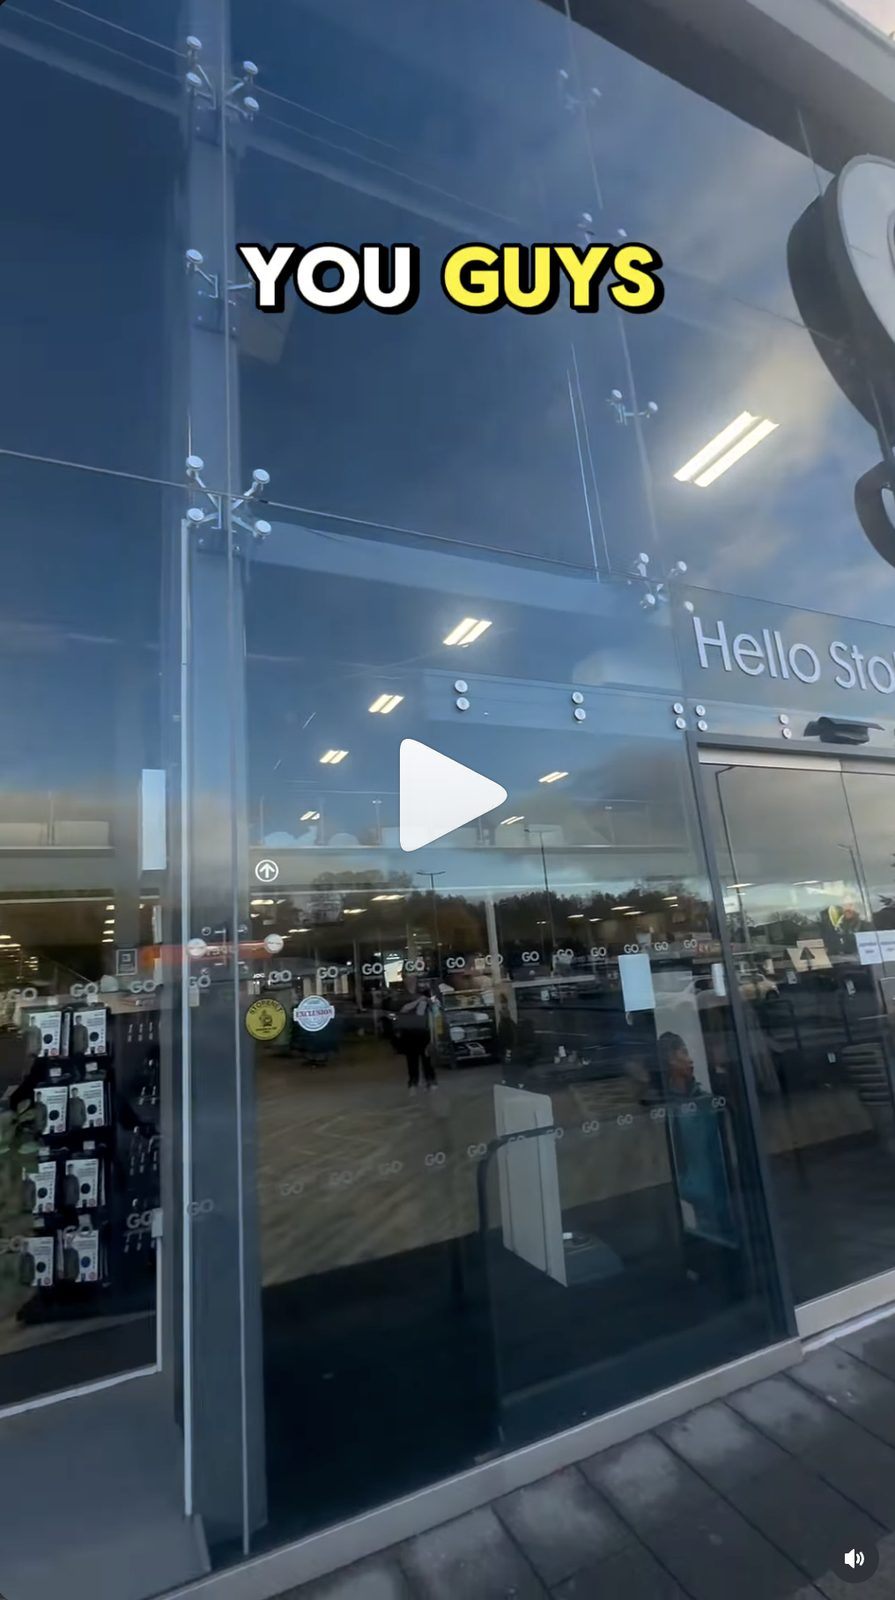
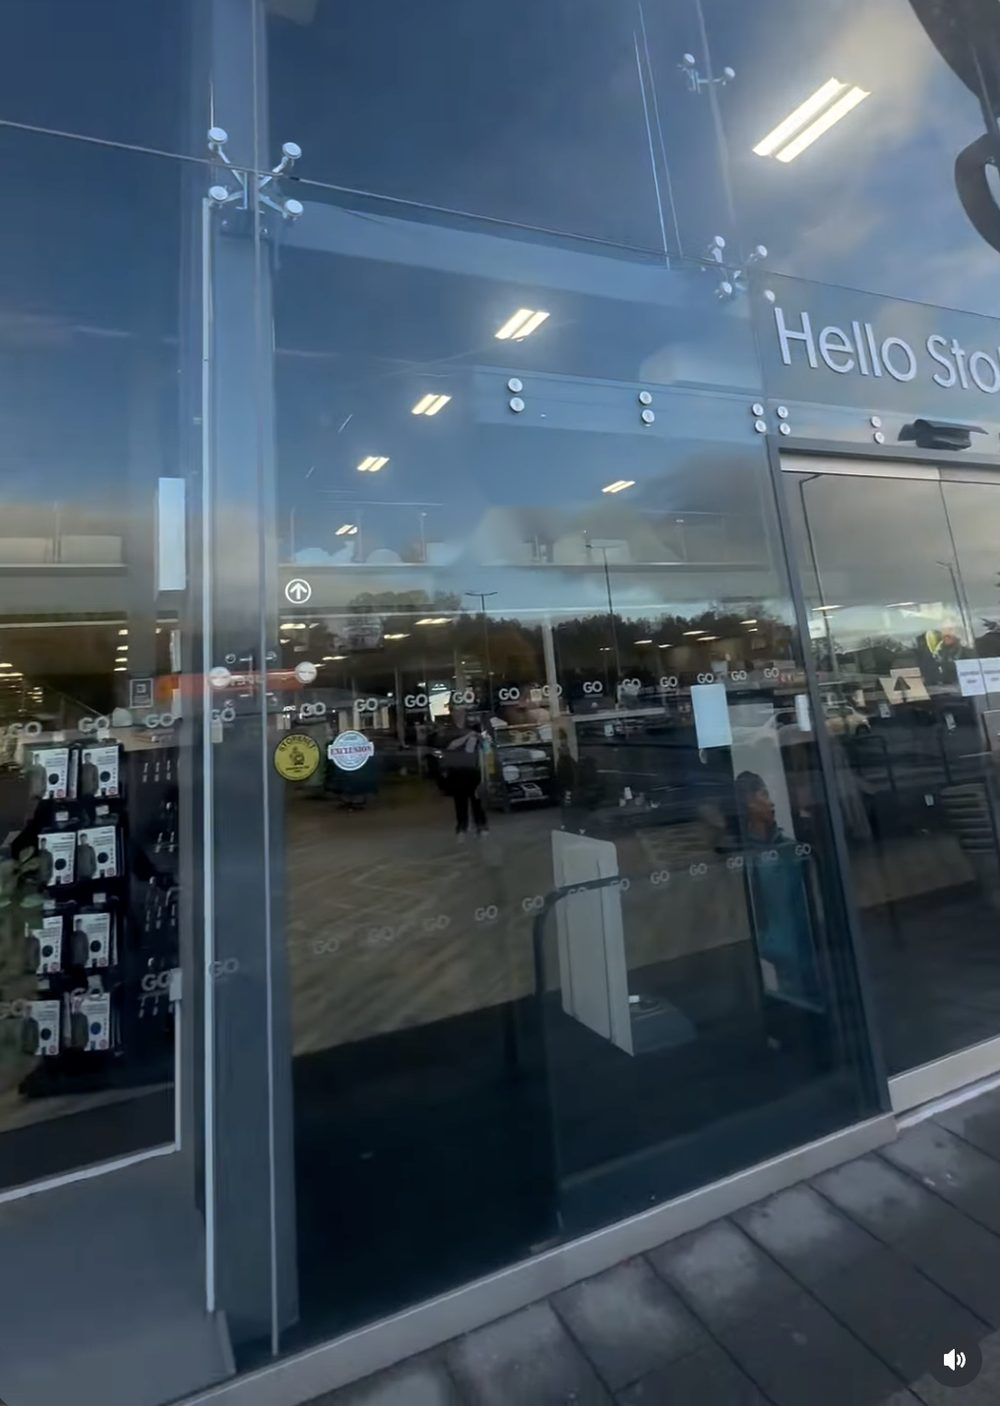
Matching play buttons and follow buttons; crop covers below on-video text
Claude-Session: https://claude.ai/code/session_01MdagHxRYjQbkLqeXc6GyY3

diff --git a/index.html b/index.html
@@ -201,7 +201,7 @@
   .tt-card:hover .tt-cover{transform:scale(1.04)}
   .tt-shade{position:absolute;inset:0;background:linear-gradient(180deg,rgba(0,0,0,.15) 0%,rgba(0,0,0,0) 40%,rgba(0,0,0,.75) 100%)}
   .tt-play{position:absolute;left:50%;top:50%;transform:translate(-50%,-50%);width:64px;height:64px;border-radius:50%;
-           background:rgba(255,255,255,.18);backdrop-filter:blur(8px);-webkit-backdrop-filter:blur(8px);border:1px solid rgba(255,255,255,.35);
+           background:#f6f4f0;color:#0e0f12;box-shadow:0 8px 24px rgba(0,0,0,.35);
            display:flex;align-items:center;justify-content:center;padding-left:4px}
   .tt-meta{position:absolute;left:16px;right:16px;bottom:16px;display:flex;flex-direction:column;gap:6px;text-align:left}
   .tt-meta b{font-size:15px}
@@ -284,7 +284,7 @@
         <div class="feed">
           <div class="feed-head"><svg width="17" height="17" viewBox="0 0 24 24" fill="currentColor" aria-hidden="true"><path d="M16.6 5.82A4.28 4.28 0 0 1 15.54 3h-3.09v12.4a2.59 2.59 0 0 1-2.59 2.5 2.6 2.6 0 0 1-2.6-2.6 2.6 2.6 0 0 1 3.4-2.47V9.7a5.73 5.73 0 0 0-.8-.06A5.7 5.7 0 0 0 4.16 15.3 5.7 5.7 0 0 0 9.86 21a5.7 5.7 0 0 0 5.68-5.7V9.01a7.35 7.35 0 0 0 4.3 1.38V7.3a4.3 4.3 0 0 1-3.24-1.48z"/></svg><span>TikTok</span><em>@<span data-tt-handle></span></em></div>
           <div class="feed-embed" id="ttEmbed"><a class="feed-ph ig-card" data-tt-link href="#" target="_blank" rel="noopener"><svg width="38" height="38" viewBox="0 0 24 24" fill="currentColor" aria-hidden="true"><path d="M16.6 5.82A4.28 4.28 0 0 1 15.54 3h-3.09v12.4a2.59 2.59 0 0 1-2.59 2.5 2.6 2.6 0 0 1-2.6-2.6 2.6 2.6 0 0 1 3.4-2.47V9.7a5.73 5.73 0 0 0-.8-.06A5.7 5.7 0 0 0 4.16 15.3 5.7 5.7 0 0 0 9.86 21a5.7 5.7 0 0 0 5.68-5.7V9.01a7.35 7.35 0 0 0 4.3 1.38V7.3a4.3 4.3 0 0 1-3.24-1.48z"/></svg><b>@<span data-tt-handle></span></b><span>Behind the scenes, as it happens.</span></a></div>
-          <a class="feed-btn dark" data-tt-link href="#" target="_blank" rel="noopener">Follow on TikTok</a>
+          <a class="feed-btn" data-tt-link href="#" target="_blank" rel="noopener">Follow on TikTok</a>
         </div>
       </div>
     </div>
